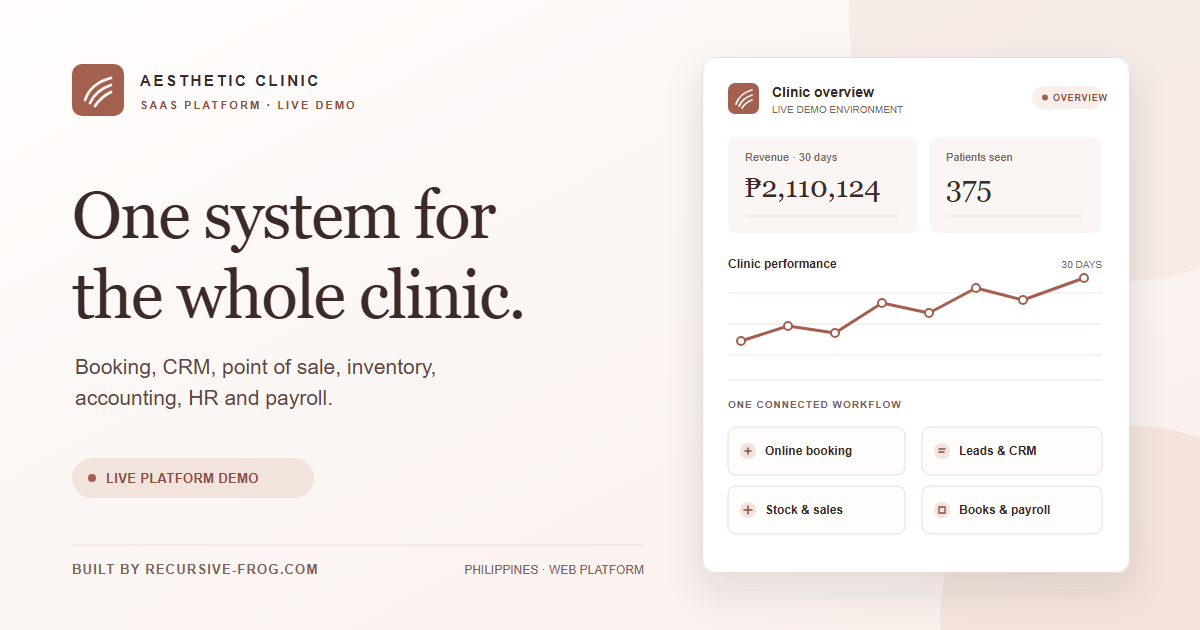
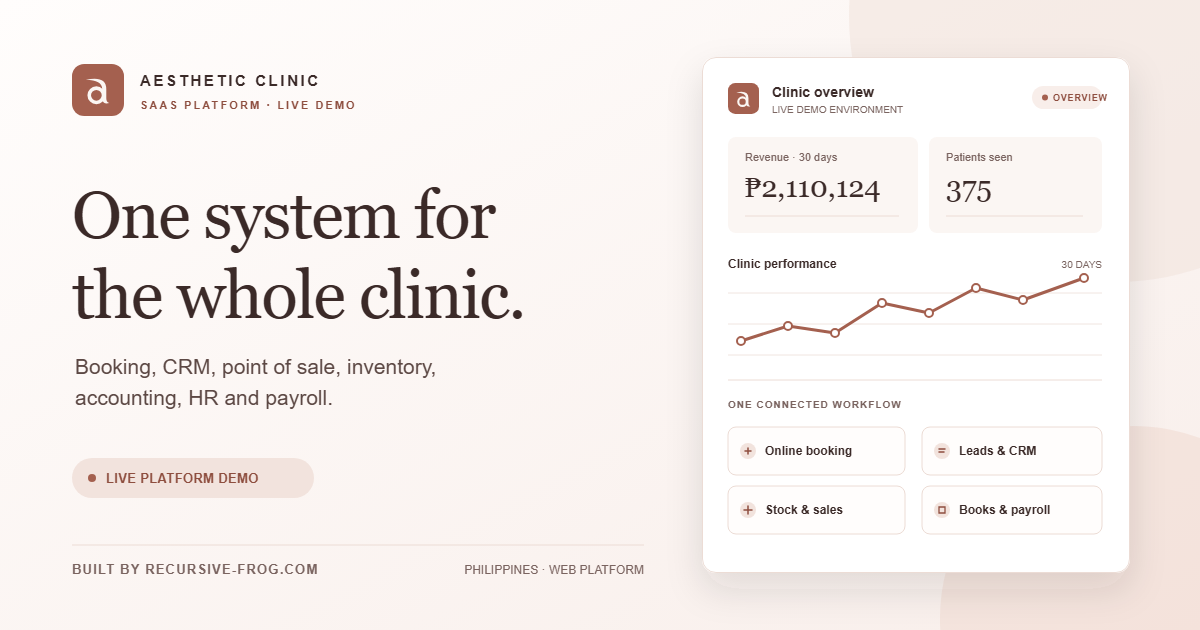
Refresh the brand mark: a calligraphic 'a' on the clay tile
The three loose arcs read as a generic signal icon, sat off-centre and
closed up at 16px. The new mark is a single-storey 'a' whose stem sweeps
out to a tapered point and turns out in a tail, echoing the Gilda serif
and the old sweep. Same clay tile and canvas colour. Favicons, touch icon
and the social card are regenerated from the same geometry.

diff --git a/resources/js/components/brand-mark.tsx b/resources/js/components/brand-mark.tsx
@@ -1,11 +1,13 @@
 import { cn } from '@/lib/utils';
 
 /*
- * The brand mark: three nested sweeping arcs on a rounded clay square.
+ * The brand mark: a single-storey "a" on a rounded clay square, its stem
+ * sweeping out to a calligraphic point at the top and a tail at the foot.
  * Same geometry as scripts/build-mark.php, which renders the favicons;
  * change both together.
  */
-const ARCS = ['M17 44Q24 24 47 18', 'M23 47Q30 32 47 27', 'M29 50Q36 40 47 36'];
+const STEM =
+    'M17 19.5Q42.2 14 42.2 31L42.2 42Q42.2 47 46 48Q38.5 50 37.2 44L37.2 31Q37.2 20 17 19.5Z';
 
 export default function BrandMark({
     className,
@@ -23,16 +25,15 @@ export default function BrandMark({
             aria-label={title}
         >
             <rect width="64" height="64" rx="15" fill="var(--color-clay-deep)" />
-            <g
+            <circle
+                cx="30"
+                cy="38.5"
+                r="8.8"
                 fill="none"
                 stroke="var(--color-canvas)"
-                strokeWidth="3.4"
-                strokeLinecap="round"
-            >
-                {ARCS.map((d) => (
-                    <path key={d} d={d} />
-                ))}
-            </g>
+                strokeWidth="4.4"
+            />
+            <path d={STEM} fill="var(--color-canvas)" />
         </svg>
     );
 }

diff --git a/scripts/build-mark.php b/scripts/build-mark.php
@@ -8,8 +8,10 @@
  *
  *     php scripts/build-mark.php
  *
- * The mark is three nested sweeping arcs on a rounded clay square, the same
- * geometry as resources/js/components/brand-mark.tsx. Change both together.
+ * The mark is a single-storey "a" on a rounded clay square: a round bowl, and a
+ * stem whose top sweeps out to a calligraphic point and whose foot turns out in
+ * a tail. Same geometry as resources/js/components/brand-mark.tsx (and the two
+ * marks in public/media/brand/og-image.svg). Change them together.
  * Only GD is assumed, so the PNGs are drawn at 8x and downsampled for clean
  * edges.
  */
@@ -17,20 +19,31 @@
 const CLAY = [164, 96, 79];
 const CANVAS = [251, 246, 243];
 
-// Quadratic curves in a 64x64 box: [x0, y0, cx, cy, x1, y1].
-const ARCS = [
-    [17, 44, 24, 24, 47, 18],
-    [23, 47, 30, 32, 47, 27],
-    [29, 50, 36, 40, 47, 36],
+// Bowl: a ring in the 64x64 box, [cx, cy, r, stroke width].
+const BOWL = [30, 38.5, 8.8, 4.4];
+
+// Sweep and stem, a closed outline: a start point, then lines [x, y] and
+// quadratic curves [cx, cy, x, y].
+const STEM_START = [17, 19.5];
+const STEM = [
+    [42.2, 14, 42.2, 31],
+    [42.2, 42],
+    [42.2, 47, 46, 48],
+    [38.5, 50, 37.2, 44],
+    [37.2, 31],
+    [37.2, 20, 17, 19.5],
 ];
 
+[$bx, $by, $br, $bw] = BOWL;
+$d = 'M'.implode(' ', STEM_START);
+foreach (STEM as $seg) {
+    $d .= (count($seg) === 4 ? 'Q' : 'L').implode(' ', $seg);
+}
 $svg = '<svg xmlns="http://www.w3.org/2000/svg" viewBox="0 0 64 64">'
     .'<rect width="64" height="64" rx="15" fill="#A4604F"/>'
-    .'<g fill="none" stroke="#FBF6F3" stroke-width="3.4" stroke-linecap="round">';
-foreach (ARCS as [$x0, $y0, $cx, $cy, $x1, $y1]) {
-    $svg .= "<path d=\"M{$x0} {$y0}Q{$cx} {$cy} {$x1} {$y1}\"/>";
-}
-$svg .= '</g></svg>'."\n";
+    ."<circle cx=\"$bx\" cy=\"$by\" r=\"$br\" fill=\"none\" stroke=\"#FBF6F3\" stroke-width=\"$bw\"/>"
+    ."<path fill=\"#FBF6F3\" d=\"{$d}Z\"/>"
+    .'</svg>'."\n";
 
 $root = dirname(__DIR__).'/public';
 @mkdir("$root/media/brand", 0775, true);
@@ -56,15 +69,33 @@ function render(int $size): GdImage
         imagefilledellipse($im, $x, $y, 2 * $r, 2 * $r, $clay);
     }
 
-    // Each arc as a run of discs, which gives round caps and an even stroke.
-    $w = (int) round(3.4 * $k);
-    foreach (ARCS as [$x0, $y0, $cx, $cy, $x1, $y1]) {
-        for ($t = 0; $t <= 1; $t += 0.004) {
-            $x = (1 - $t) ** 2 * $x0 + 2 * (1 - $t) * $t * $cx + $t ** 2 * $x1;
-            $y = (1 - $t) ** 2 * $y0 + 2 * (1 - $t) * $t * $cy + $t ** 2 * $y1;
-            imagefilledellipse($im, (int) round($x * $k), (int) round($y * $k), $w, $w, $ink);
+    // Bowl: a canvas disc with a clay counter punched back in.
+    [$cx, $cy, $cr, $cw] = BOWL;
+    $outer = (int) round(2 * ($cr + $cw / 2) * $k);
+    $inner = (int) round(2 * ($cr - $cw / 2) * $k);
+    imagefilledellipse($im, (int) round($cx * $k), (int) round($cy * $k), $outer, $outer, $ink);
+    imagefilledellipse($im, (int) round($cx * $k), (int) round($cy * $k), $inner, $inner, $clay);
+
+    // Sweep and stem: the outline flattened to a polygon.
+    [$px, $py] = STEM_START;
+    $points = [$px * $k, $py * $k];
+    foreach (STEM as $seg) {
+        if (count($seg) === 2) {
+            [$px, $py] = $seg;
+            array_push($points, $px * $k, $py * $k);
+
+            continue;
         }
+        [$qx, $qy, $x1, $y1] = $seg;
+        for ($i = 1; $i <= 40; $i++) {
+            $t = $i / 40;
+            $x = (1 - $t) ** 2 * $px + 2 * (1 - $t) * $t * $qx + $t ** 2 * $x1;
+            $y = (1 - $t) ** 2 * $py + 2 * (1 - $t) * $t * $qy + $t ** 2 * $y1;
+            array_push($points, $x * $k, $y * $k);
+        }
+        [$px, $py] = [$x1, $y1];
     }
+    imagefilledpolygon($im, array_map(fn ($v) => (int) round($v), $points), $ink);
 
     $out = imagecreatetruecolor($size, $size);
     imagesavealpha($out, true);

diff --git a/SESSION_STATE.md b/SESSION_STATE.md
@@ -22,6 +22,7 @@ admin@aesthetic-clinic.test (Super Admin), owner@aesthetic-clinic.test, receptio
 - [x] Phase 2: 38 Unsplash photos of Asian practitioners/patients (`public/media/photos/credits.json`), hero loop `public/media/video/hero-clinic.mp4` cut from four Pexels clinic clips (`CREDITS.md`).
 - [x] Phase 3: new `site-layout.tsx` (recursive-frog showcase strip, header, footer credit), `home.tsx` on the mockup, `platform.tsx` (`/platform`, demo logins), all public page heroes light, plum fills moved to clay. Fixed chat widget root-relative fetches.
 - [x] Phase 4: admin re-themed by tokens; dashboard KPI panel `components/admin/analytics-panel.tsx` + SVG charts `components/admin/charts.tsx`; `ClinicAnalytics` gained patients, utilisation, branches, categories, practitioners, funnel, sources, monthly. Fixed previous-period bound and the refund sign bug. Platform screenshots in `public/media/photos/platform-*.jpg` (re-capture after visual changes).
+- [x] Logo refresh (2026-10-11, logo-design skill): the three loose arcs became a single-storey "a" whose stem sweeps out to a calligraphic point and turns out in a tail at the foot; same clay tile and canvas colour. Geometry lives in `components/brand-mark.tsx`, `scripts/build-mark.php` (favicons) and the two marks in `public/media/brand/og-image.svg` (PNG re-rendered); change all three together. Not yet deployed live.
 - [x] Phase 5: `ShowcaseHistorySeeder` (a year through the real actions, ~2.5 min).
 - [x] Phase 6: split sign-in screen with one-click demo logins (`/login?email=` prefills); QA at 390/768/1440 with no overflow or console errors; impeccable finish review run (3 rounds: 8 fixes, then hero and 3 regressions, then mobile hero contrast, measured AA at all widths); `DESIGN.md` + `.impeccable/design.json` written from the build; first live deploy done by hand (see Live below).
 
